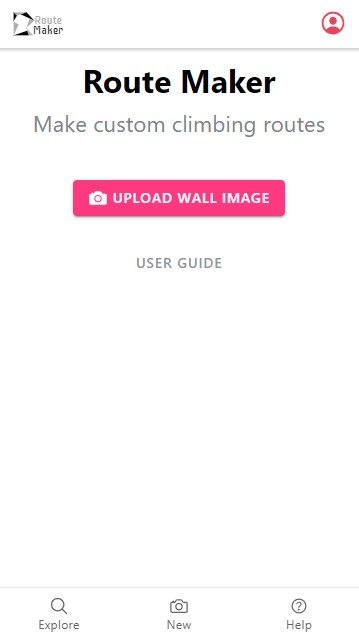
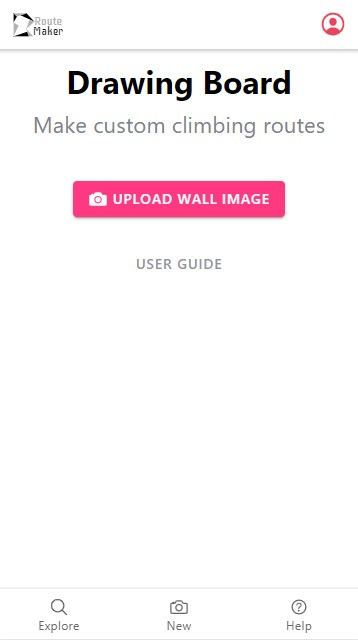
feat: Rename titles and add content to about page

diff --git a/ionic_user_interface/src/views/Help.vue b/ionic_user_interface/src/views/Help.vue
@@ -5,11 +5,21 @@
         <strong>-- Hello Climbers! --</strong>
         <p>This is a free open source project between friends who happen to code and climb.</p>
 
-        <p>It aims to provide two features:</p>
+        <p>It aims to provide the following features:</p>
         <div class="features-div">
           <ol class="ion-text-start">
-            <li>Provide a drawing board for custom climbing routes</li>
-            <li>Route sharing system where climbers can search routes by gym, grade and vote</li>
+            <li>
+              <b>AI Drawing Board</b>
+              - Draw custom climbing routes faster with a climbing hold detection model
+            </li>
+            <li>
+              <b>Route Sharing System</b>
+              - Climbers can search, grade and vote for other user-created routes
+            </li>
+            <li>
+              <b>Ease of Access</b>
+              - No signup or installation is necessary for searching and viewing of routes
+            </li>
           </ol>
         </div>
 

diff --git a/ionic_user_interface/src/views/Explore.vue b/ionic_user_interface/src/views/Explore.vue
@@ -6,7 +6,7 @@
           <ion-col class="ion-align-self-center" size-lg="6" size-md="8" size-xs="12">
             <div v-if="showGymSelector">
               <strong>Route Maker</strong>
-              <p>Find climbing routes by gym</p>
+              <p>User-created climbing routes</p>
             </div>
             <div v-else>
               <strong>-- {{ gymName }} --</strong>

diff --git a/ionic_user_interface/src/views/New.vue b/ionic_user_interface/src/views/New.vue
@@ -2,7 +2,7 @@
   <ion-page>
     <ion-content :fullscreen="true" ref="ionContent">
       <div class="my-container">
-        <strong>Route Maker</strong>
+        <strong>Drawing Board</strong>
         <p>Make custom climbing routes</p>
         <br />
         <br />
